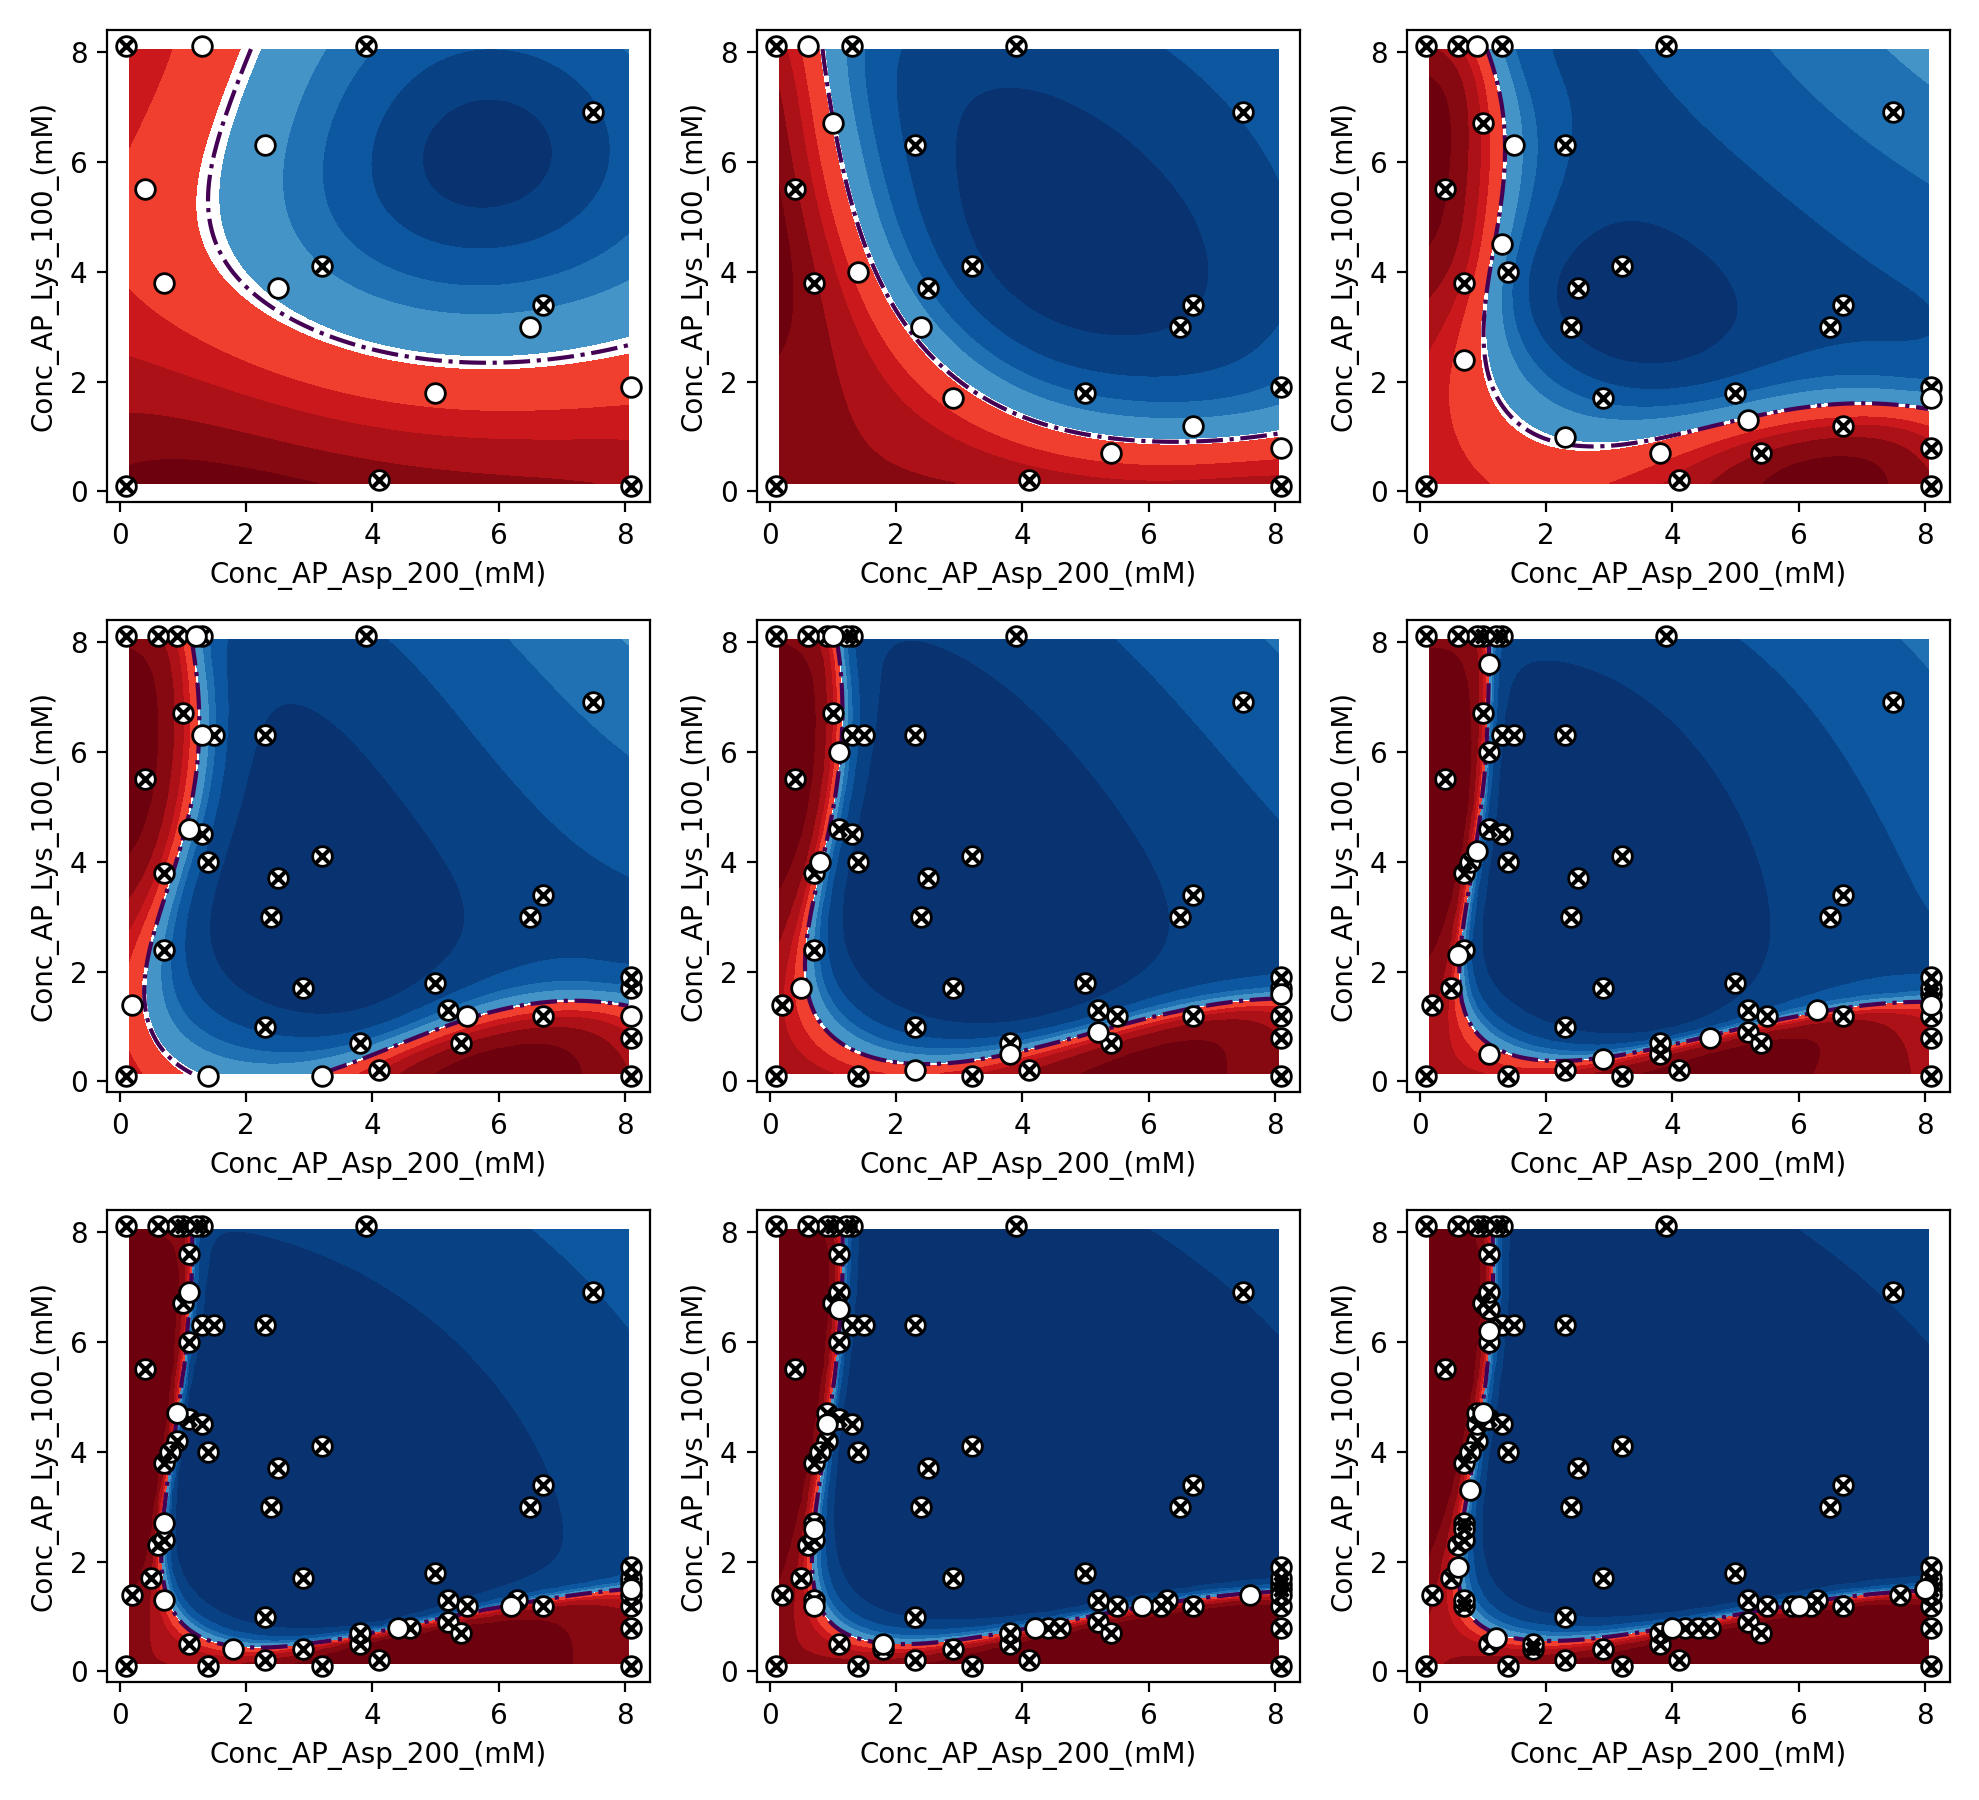
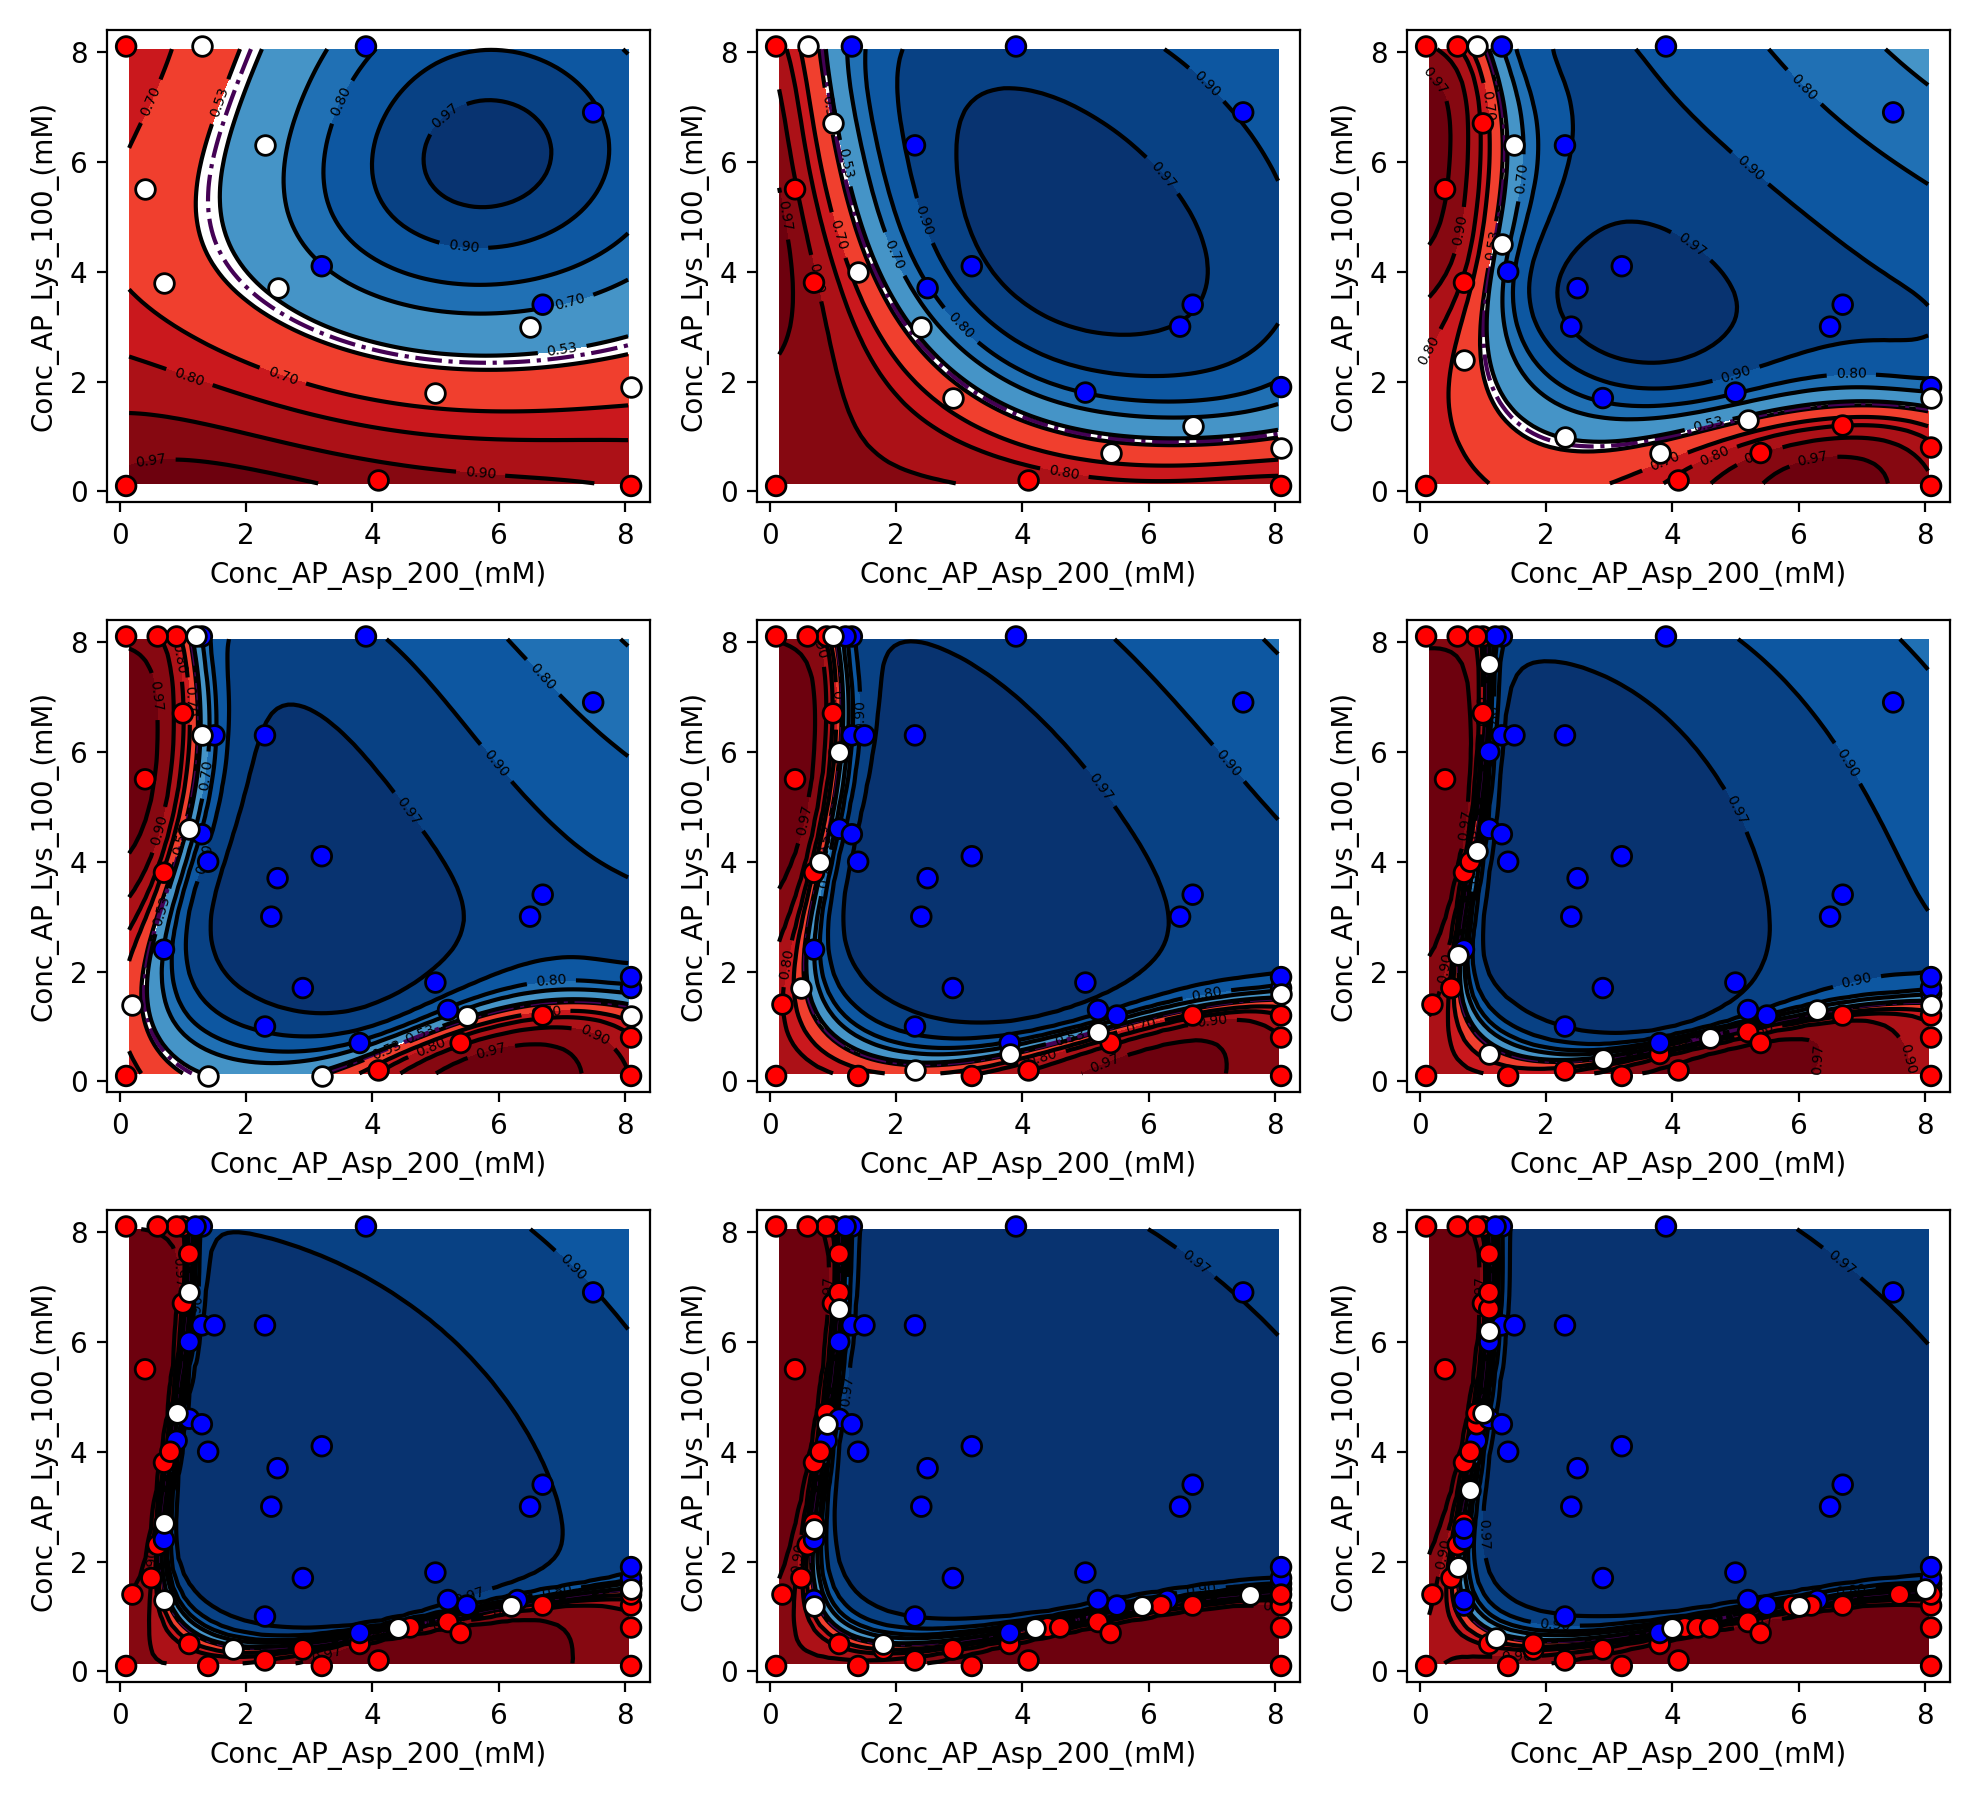
modified plotting script and added readme file

diff --git a/figures/plot_2d_landscapes.py b/figures/plot_2d_landscapes.py
@@ -43,7 +43,6 @@ if __name__ == "__main__":
     # sincle cycle
     if isinstance(cycles, int):
 
-        fig, ax = beauty.get_axes(1,1)
 
         pdf_tmp = np.load(exp_folder+pdf_file_template.format(cycles, cycles))
 
@@ -53,23 +52,38 @@ if __name__ == "__main__":
         )
         new_points_ndx = np.loadtxt(exp_folder+new_points_ndx_format.format(cycles,cycles))
 
+        fig, ax = beauty.get_axes(1,1)
         beauty.plot2D_pdfsurfaceplot(
             df=exp_df,
             pdf=pdf_tmp,
             var1=exp_variables[1],
             var2=exp_variables[0],
             axis=ax,
-            constant_var=None,
             screened_points_ndx=list(screened_points_ndx),
             new_points_ndx=list(new_points_ndx),
             show_points=True,
         )
         fig.tight_layout()
-        fig.savefig(experimentID+f'_PDF_cycle{cycles}.png')
+        fig.savefig('./generated_plots/'+experimentID+f'_PDF_cycle{cycles}.png')
+
+        fig1, ax1 = beauty.get_axes(1,1)
+        beauty.plot2D_entropysurfaceplot(
+            df=exp_df,
+            pdf=pdf_tmp,
+            var1=exp_variables[1],
+            var2=exp_variables[0],
+            axis=ax1,
+            screened_points_ndx=list(screened_points_ndx),
+            new_points_ndx=list(new_points_ndx),
+            show_points=True,
+        )
+        fig1.tight_layout()
+        fig1.savefig('./generated_plots/'+experimentID+f'_ENTROPY_cycle{cycles}.png')
 
     elif isinstance(cycles, np.ndarray):
 
         fig, ax = beauty.get_axes(len(cycles), 3)
+        fig1, ax1 = beauty.get_axes(len(cycles), 3)
 
         for c in cycles:
 
@@ -90,10 +104,24 @@ if __name__ == "__main__":
                 var1=exp_variables[1],
                 var2=exp_variables[0],
                 axis=ax[c],
-                constant_var=None,
                 screened_points_ndx=list(screened_points_ndx),
                 new_points_ndx=list(new_points_ndx),
                 show_points=True,
             )
+
+            beauty.plot2D_entropysurfaceplot(
+                df=exp_df,
+                pdf=pdf_tmp,
+                var1=exp_variables[1],
+                var2=exp_variables[0],
+                axis=ax1[c],
+                screened_points_ndx=list(screened_points_ndx),
+                new_points_ndx=list(new_points_ndx),
+                show_points=True,
+            )
+
         fig.tight_layout()
-        fig.savefig(experimentID+'_PDF.png')
+        fig.savefig('./generated_plots/'+experimentID+'_PDF.png')
+        fig1.tight_layout()
+        fig1.savefig('./generated_plots/'+experimentID+'_ENTROPY.png')
+

diff --git a/figures/plot_3d_landscapes.py b/figures/plot_3d_landscapes.py
@@ -41,7 +41,7 @@ if __name__ == "__main__":
             show_surfaces=True
         )
 
-        fig.write_image(experimentID+f'_PDF_cycle{cycles}.pdf', scale=2)
+        fig.write_image('./generated_plots/'+experimentID+f'_PDF_cycle{cycles}.pdf', scale=2)
 
     elif isinstance(cycles, np.ndarray):
 
@@ -56,4 +56,4 @@ if __name__ == "__main__":
                 pdf=pdf_tmp
             )
 
-            fig.write_image(experimentID+f'_PDF_cycle{c_tmp}.pdf', scale=2)
+            fig.write_image('./generated_plots/'+experimentID+f'_PDF_cycle{c_tmp}.pdf', scale=2)

diff --git a/figures/README.md b/figures/README.md
@@ -1,0 +1,29 @@
+# Raw data and figures generation
+
+In this folder are contained the original and the respective raw-data for the figures presented in the _main_ manuscript.
+
+Additionally two scripts (`plot_2d_landscapes.py`, `plot_3d_landscapes.py`) are provided to replicate the plots of the phase diagrams and the entropy landscapes that are reported in both the main manuscript and the supporting information.
+
+To used the script is it is necessary to change the following fields:
+-   `experimentID`, needs to match the specific folder of the experiments in the experiments folder.
+-   `search_space_dataset`, needs to match the `DOE_*` file that is present in the `/experimentID/dataset` folder.
+-   `cycles`, which can be a `int` or a `np.array` of ints with the corresponding number/s of cycle/s that are going to be drawn.
+
+Once the parameters are set one can simply run the command:
+
+```python
+python plot_2d_landscapes.py
+```
+
+for a 2D series of plots, or
+
+```python
+python plot_3d_landscapes.py
+```
+
+for a 3D series of plots.
+
+In case of 3D the plots are always individually saves as `.pdf` and they do not occupy a single figure object.
+The figure are stored by default in the folder `generated_plots`, where currently there are some examples.
+
+**Disclaimer**: regardless all data used in the paper is stored in the `root_dir/experiments/` folder, under each single experiment.
